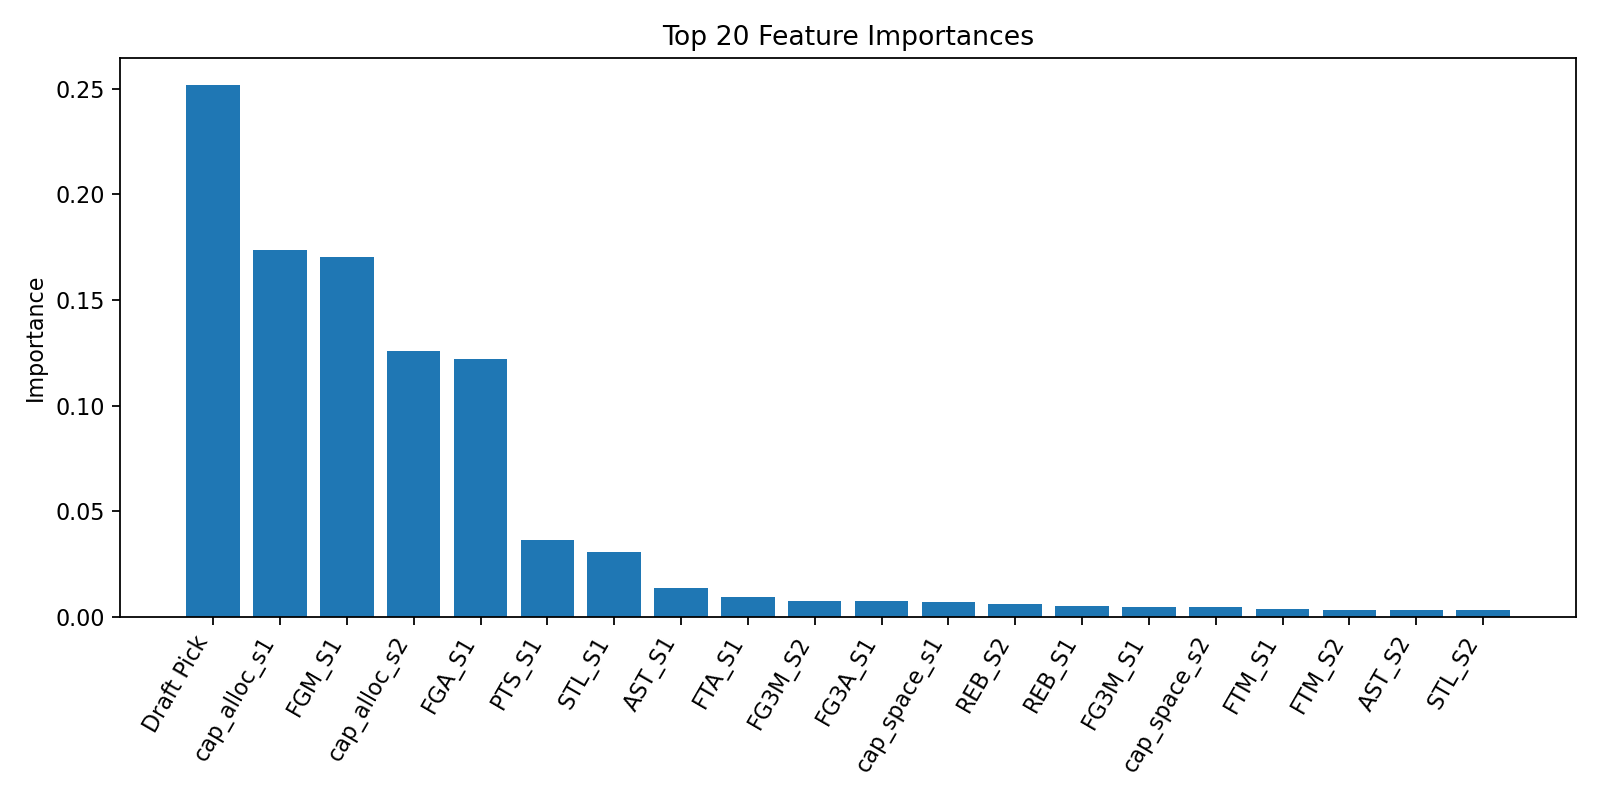
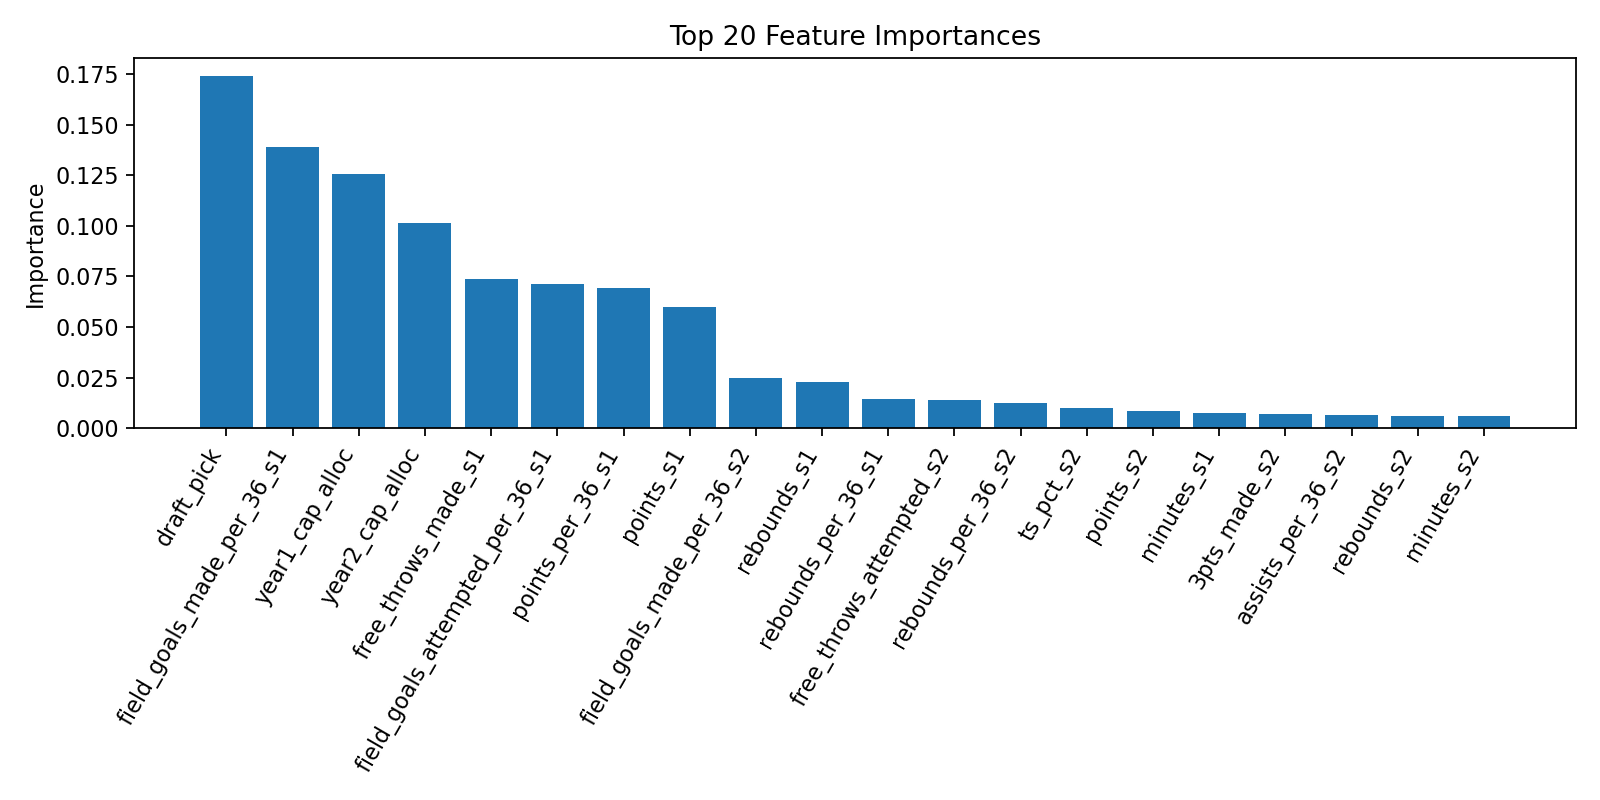
new

diff --git a/XGboost.py b/XGboost.py
@@ -8,15 +8,40 @@ import matplotlib.pyplot as plt
 # =======================
 # CONFIG
 # =======================
-CSV_PATH = "merged_player_finance_with_stats.csv"
-TARGET_COL = "3rd Year Option"
+CSV_PATH = "final_data.csv"
+TARGET_COL = "year3_salary"
 FEATURE_COLS = [
-    "Draft Pick","3rd Year Option",
-    "MIN_S1","MIN_S2","PTS_S1","PTS_S2","AST_S1","AST_S2",
-    "REB_S1","REB_S2","STL_S1","STL_S2","FG3M_S1","FG3M_S2",
-    "FG3A_S1","FG3A_S2","FTM_S1","FTM_S2","FTA_S1","FTA_S2",
-    "FGM_S1","FGM_S2","FGA_S1","FGA_S2",
-    "cap_space_s1","cap_alloc_s1","cap_space_s2","cap_alloc_s2"
+    "draft_pick",          
+    "year3_salary",        
+
+    # Season 1 & Season 2 box score:
+    "minutes_s1", "minutes_s2",
+    "points_s1", "points_s2",
+    "assists_s1", "assists_s2",
+    "rebounds_s1", "rebounds_s2",
+    #"steals_s1", "steals_s2",
+    "3pts_made_s1", "3pts_made_s2",
+    "3pts_attempted_s1", "3pts_attempted_s2",
+    "free_throws_made_s1", "free_throws_made_s2",
+    "free_throws_attempted_s1", "free_throws_attempted_s2",
+    "field_goals_made_per_36_s1", "field_goals_attempted_per_36_s1" , 
+    "3pts_made_per_36_s1", "3pts_attempted_per_36_s1" ,
+    "field_goals_made_per_36_s2", "field_goals_attempted_per_36_s2" , 
+    "3pts_made_per_36_s2", "3pts_attempted_per_36_s2" ,
+    "fg_pct_s1", "fg_pct_s2" , 
+    #"field_goals_made_s1", "field_goals_made_s2",
+    #"field_goals_attempted_s1", "field_goals_attempted_s2",
+    "ts_pct_s2", "ts_pct_s1" ,
+    "points_per_36_s1", "points_per_36_s2", 
+    "rebounds_per_36_s1", "rebounds_per_36_s2",
+    "assists_per_36_s1", "assists_per_36_s2", 
+
+
+    # Salaries & cap space:
+    #"year1_cap_space",
+    "year1_cap_alloc",
+    #"year2_cap_space",
+    "year2_cap_alloc"
 ]
 TOP_K_IMPORTANCE = 20
 RAND = 42
@@ -50,8 +75,8 @@ y  = y.loc[valid]
 # -----------------------
 X = df.drop(columns=[TARGET_COL]).copy()
 
-if X["Draft Pick"].dtype==object:
-    X["Draft Pick"] = X["Draft Pick"].astype(str).str.extract(r"(\d+)", expand=False).astype(float)
+if X["draft_pick"].dtype==object:
+    X["draft_pick"] = X["draft_pick"].astype(str).str.extract(r"(\d+)", expand=False).astype(float)
 
 for col in X.columns:
     if X[col].dtype==object:
